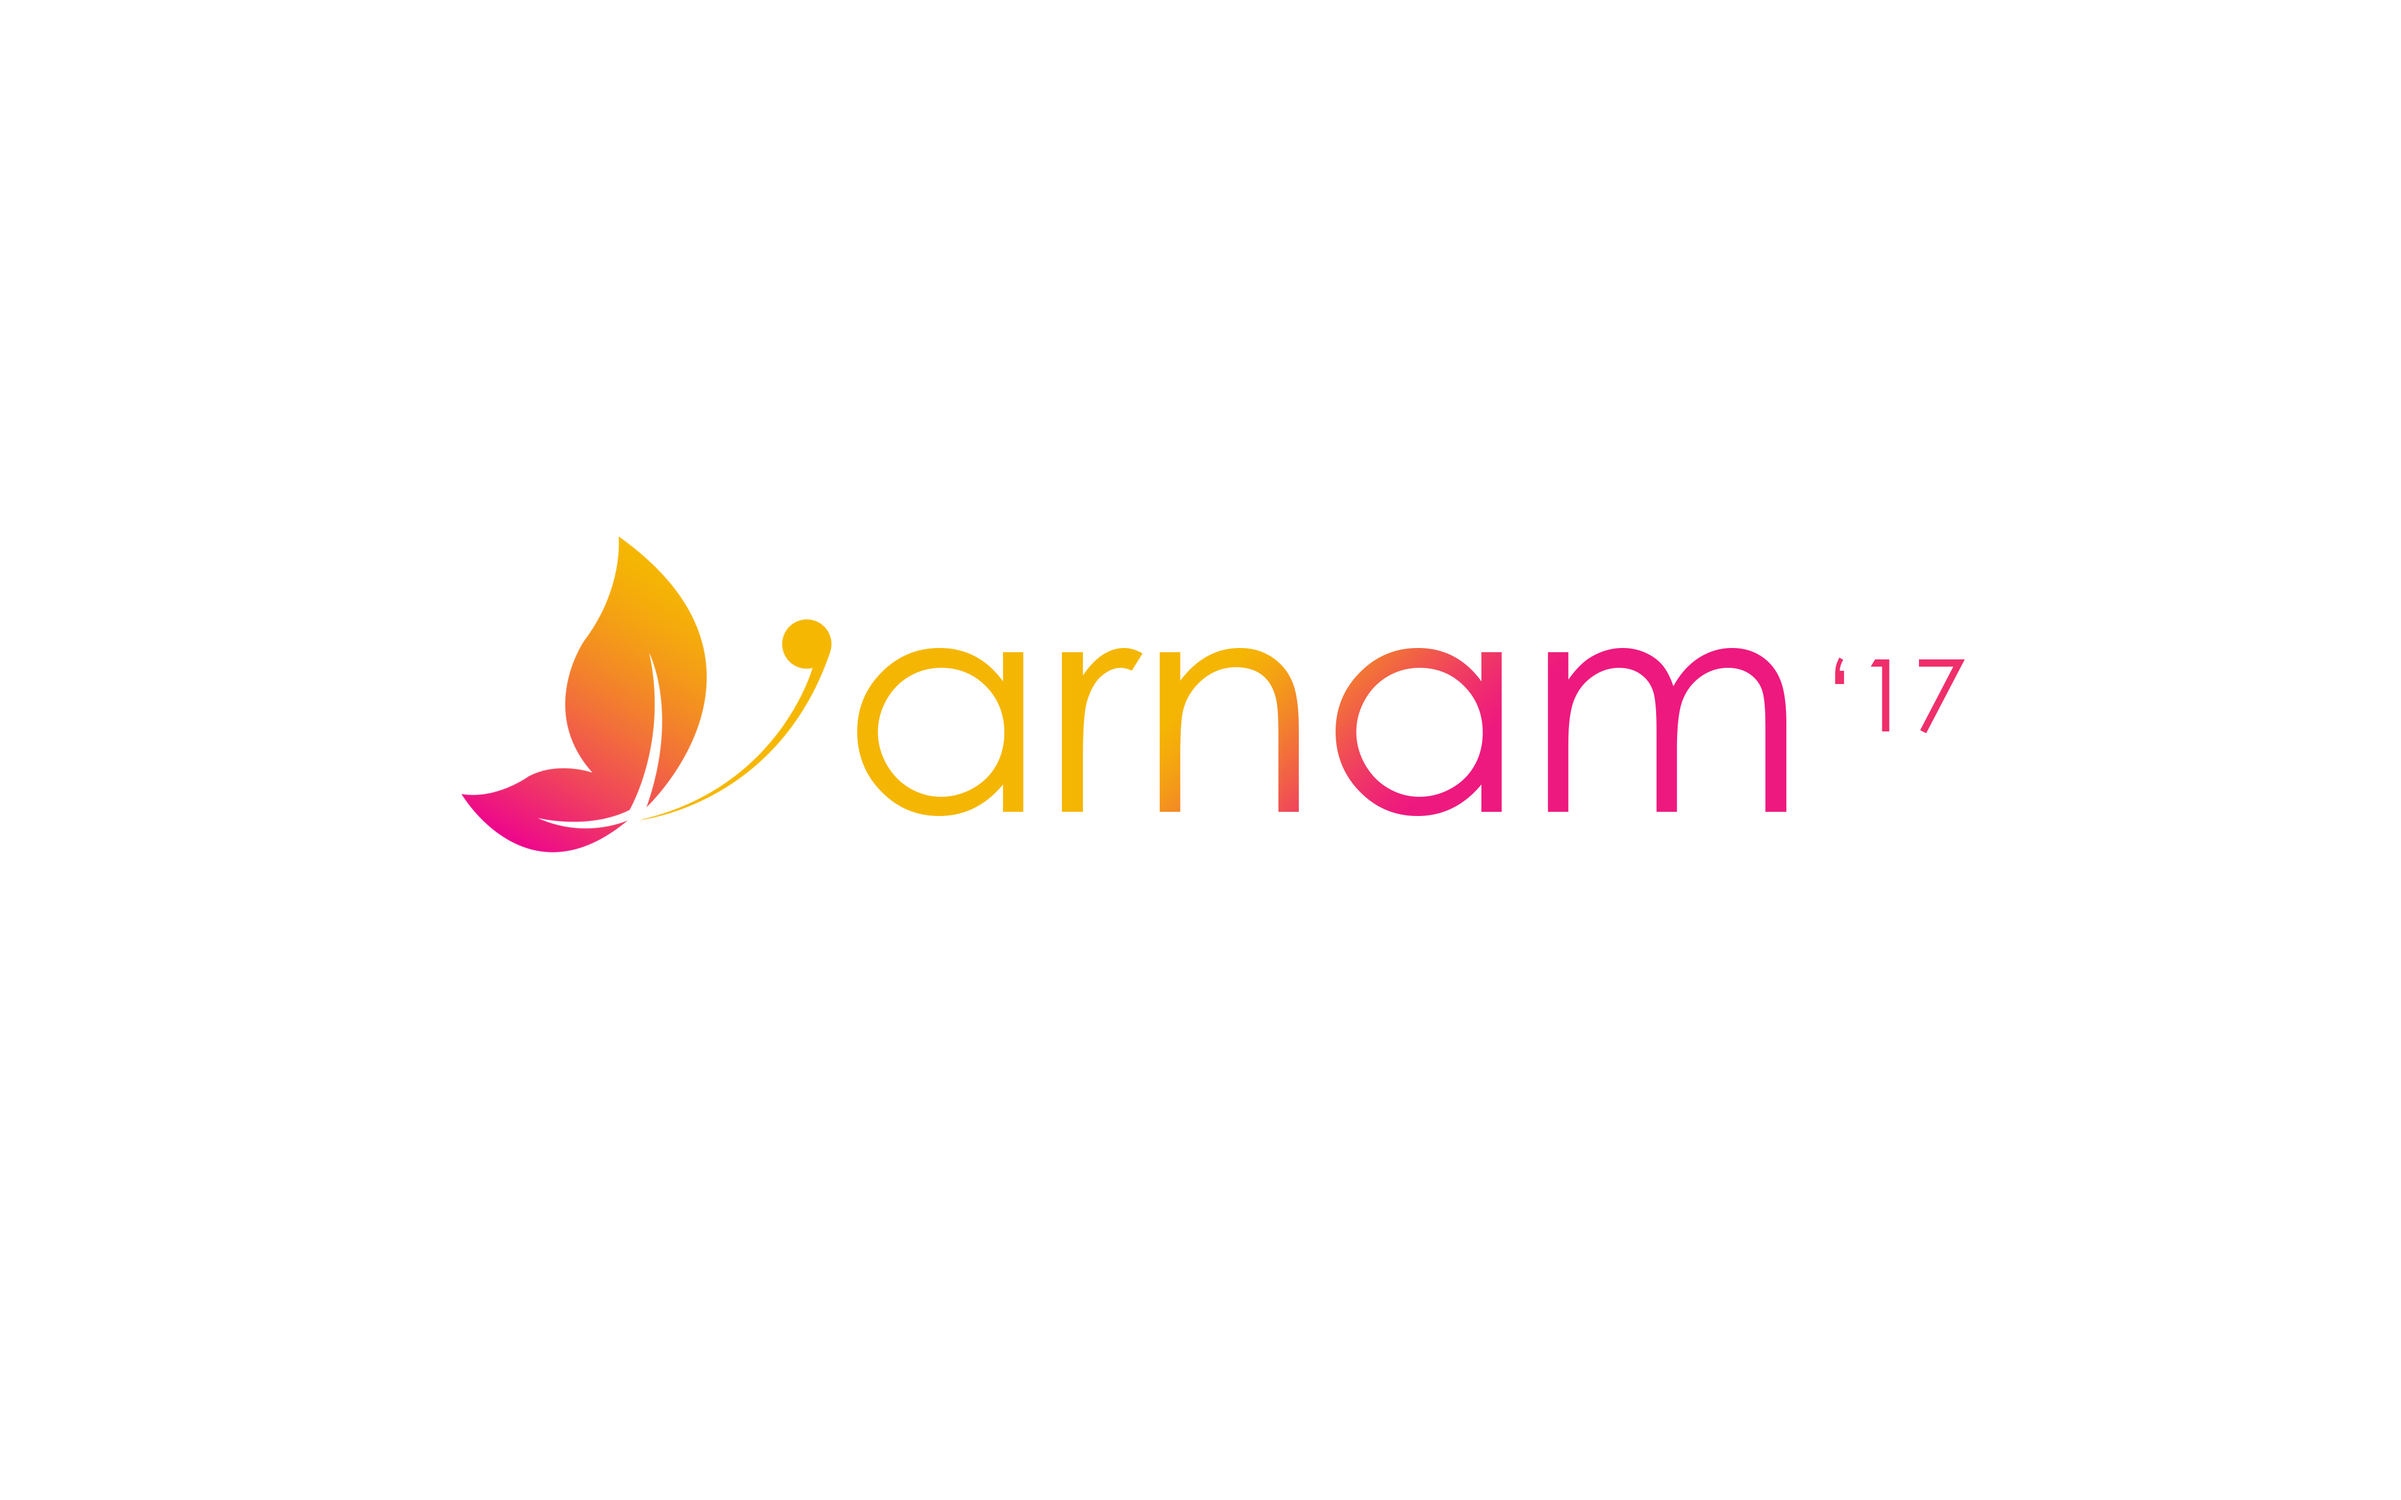
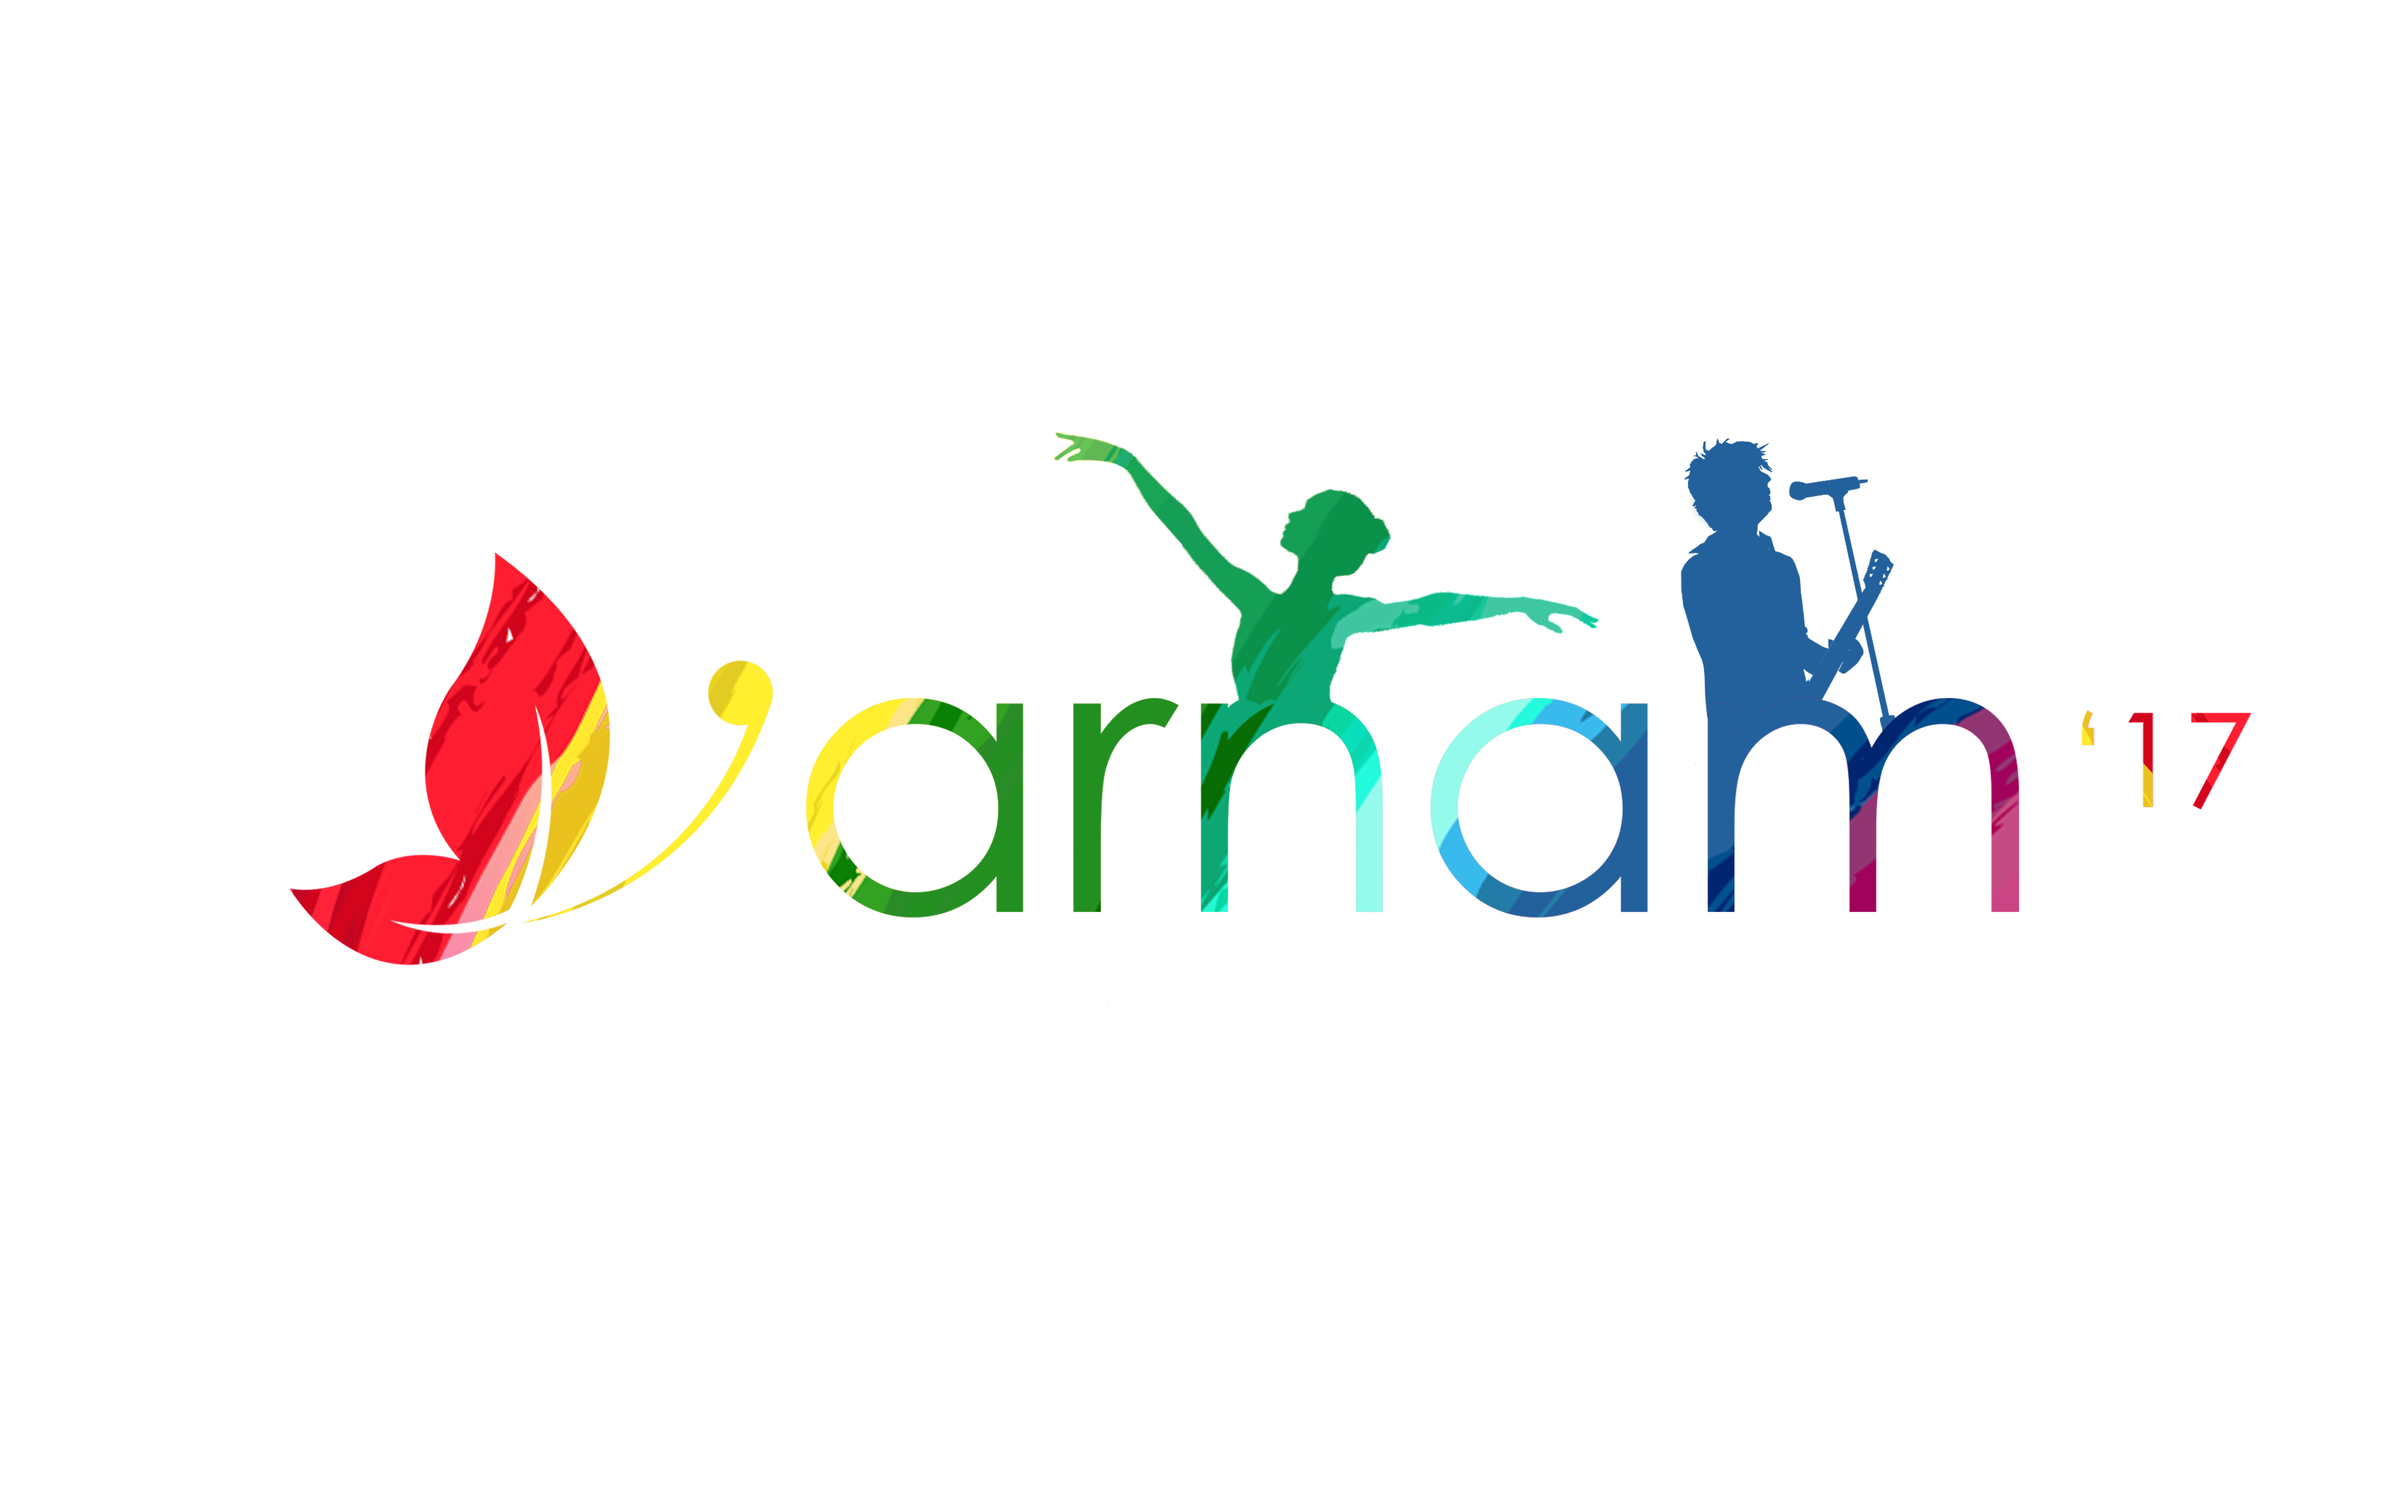
asda
asd

Changed region(s): [[0.125, 0.2808, 0.8438, 0.6552], [0.875, 0.468, 0.9375, 0.5304], [0.4375, 0.2808, 0.4688, 0.312]]

diff --git a/index.html b/index.html
@@ -1247,7 +1247,7 @@
 		</section>
 		<section id="about" class="section">
 			<div class="guitar2">
-				<img class="img-responsive" src="images/guitar2.jpg" alt="guitar">
+				<img class="img-responsive" src="images/butterfly.png" alt="guitar">
 			</div>
 			<div class="about-content">
 				<h2>About Varnam</h2>

diff --git a/css/style.css b/css/style.css
@@ -69,14 +69,7 @@
     margin-left: 100px;
   }
 }
-.section
-{
-  box-shadow: inset 0px 0px 5px 0px rgba(0,0,0,0.05),
-   inset 0px 3px 15px 0px rgba(0,0,0,0.5),
-    0px 1px 1px 0px rgba(255,255,255,0.08);
-		margin:0px;
-		padding:0px;
-}
+
 #sponsor .item li a
 {
 	color:#f5f5f5;

diff --git a/css/main.css b/css/main.css
@@ -364,10 +364,11 @@ h2 {
 **************************/
 
 #about {
-  background-color: #75B46E;
+  background-color: #ffffff;
   position: relative;
   width: 100%;
   display: flex;
+    color: black;
 }
 
 .guitar2 {
